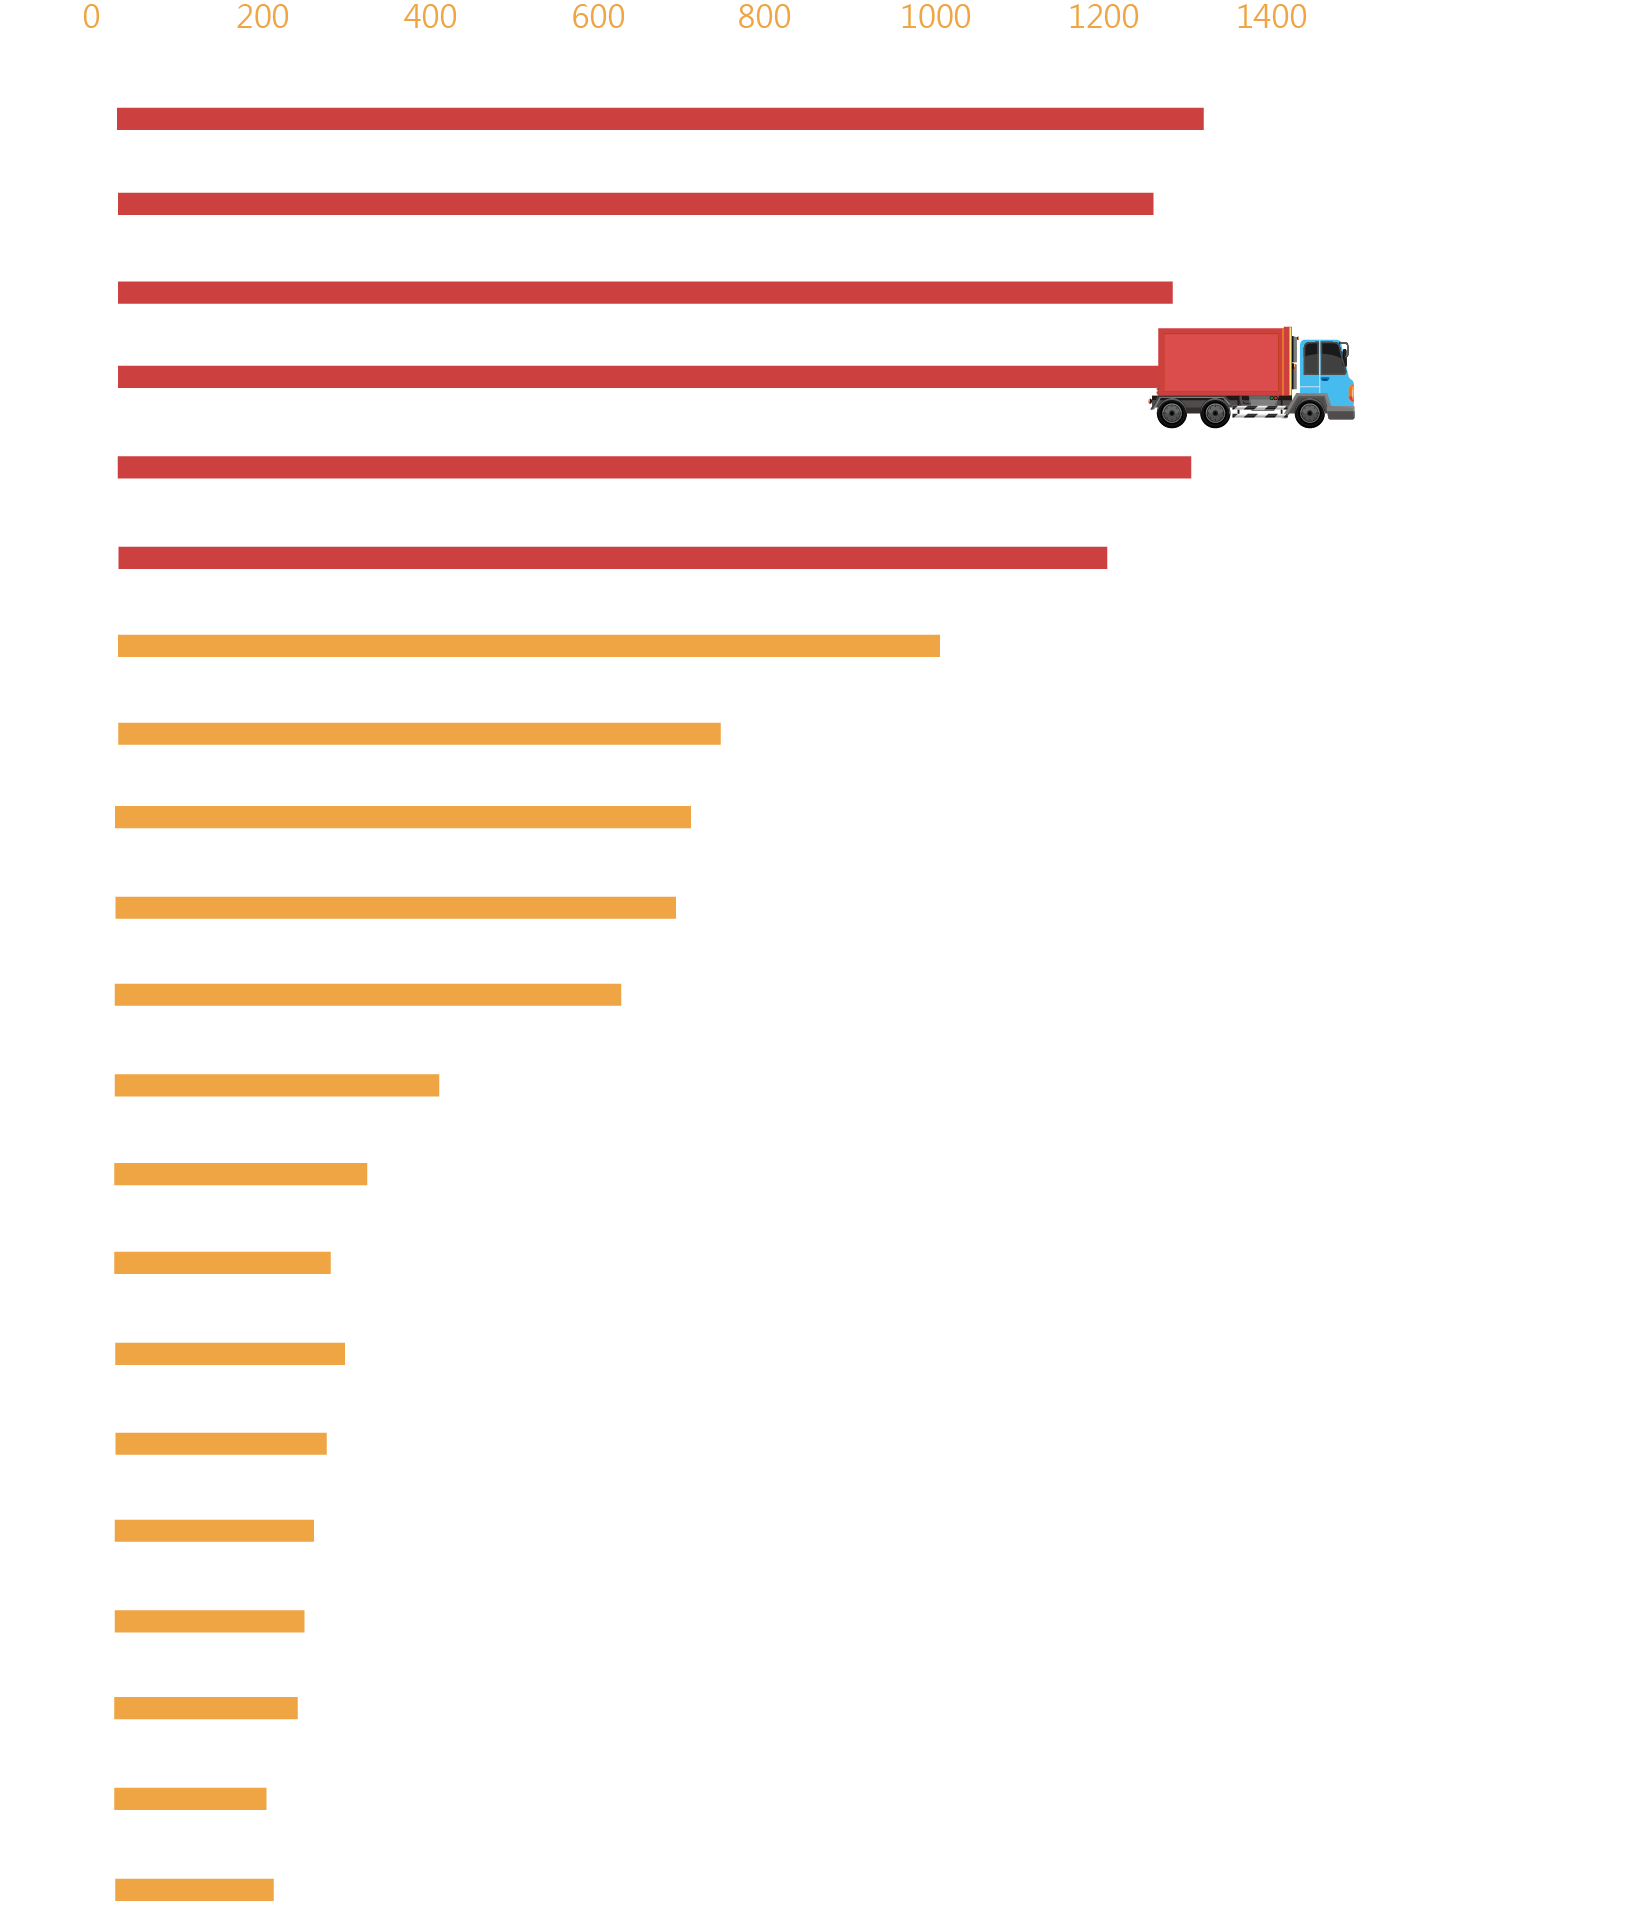
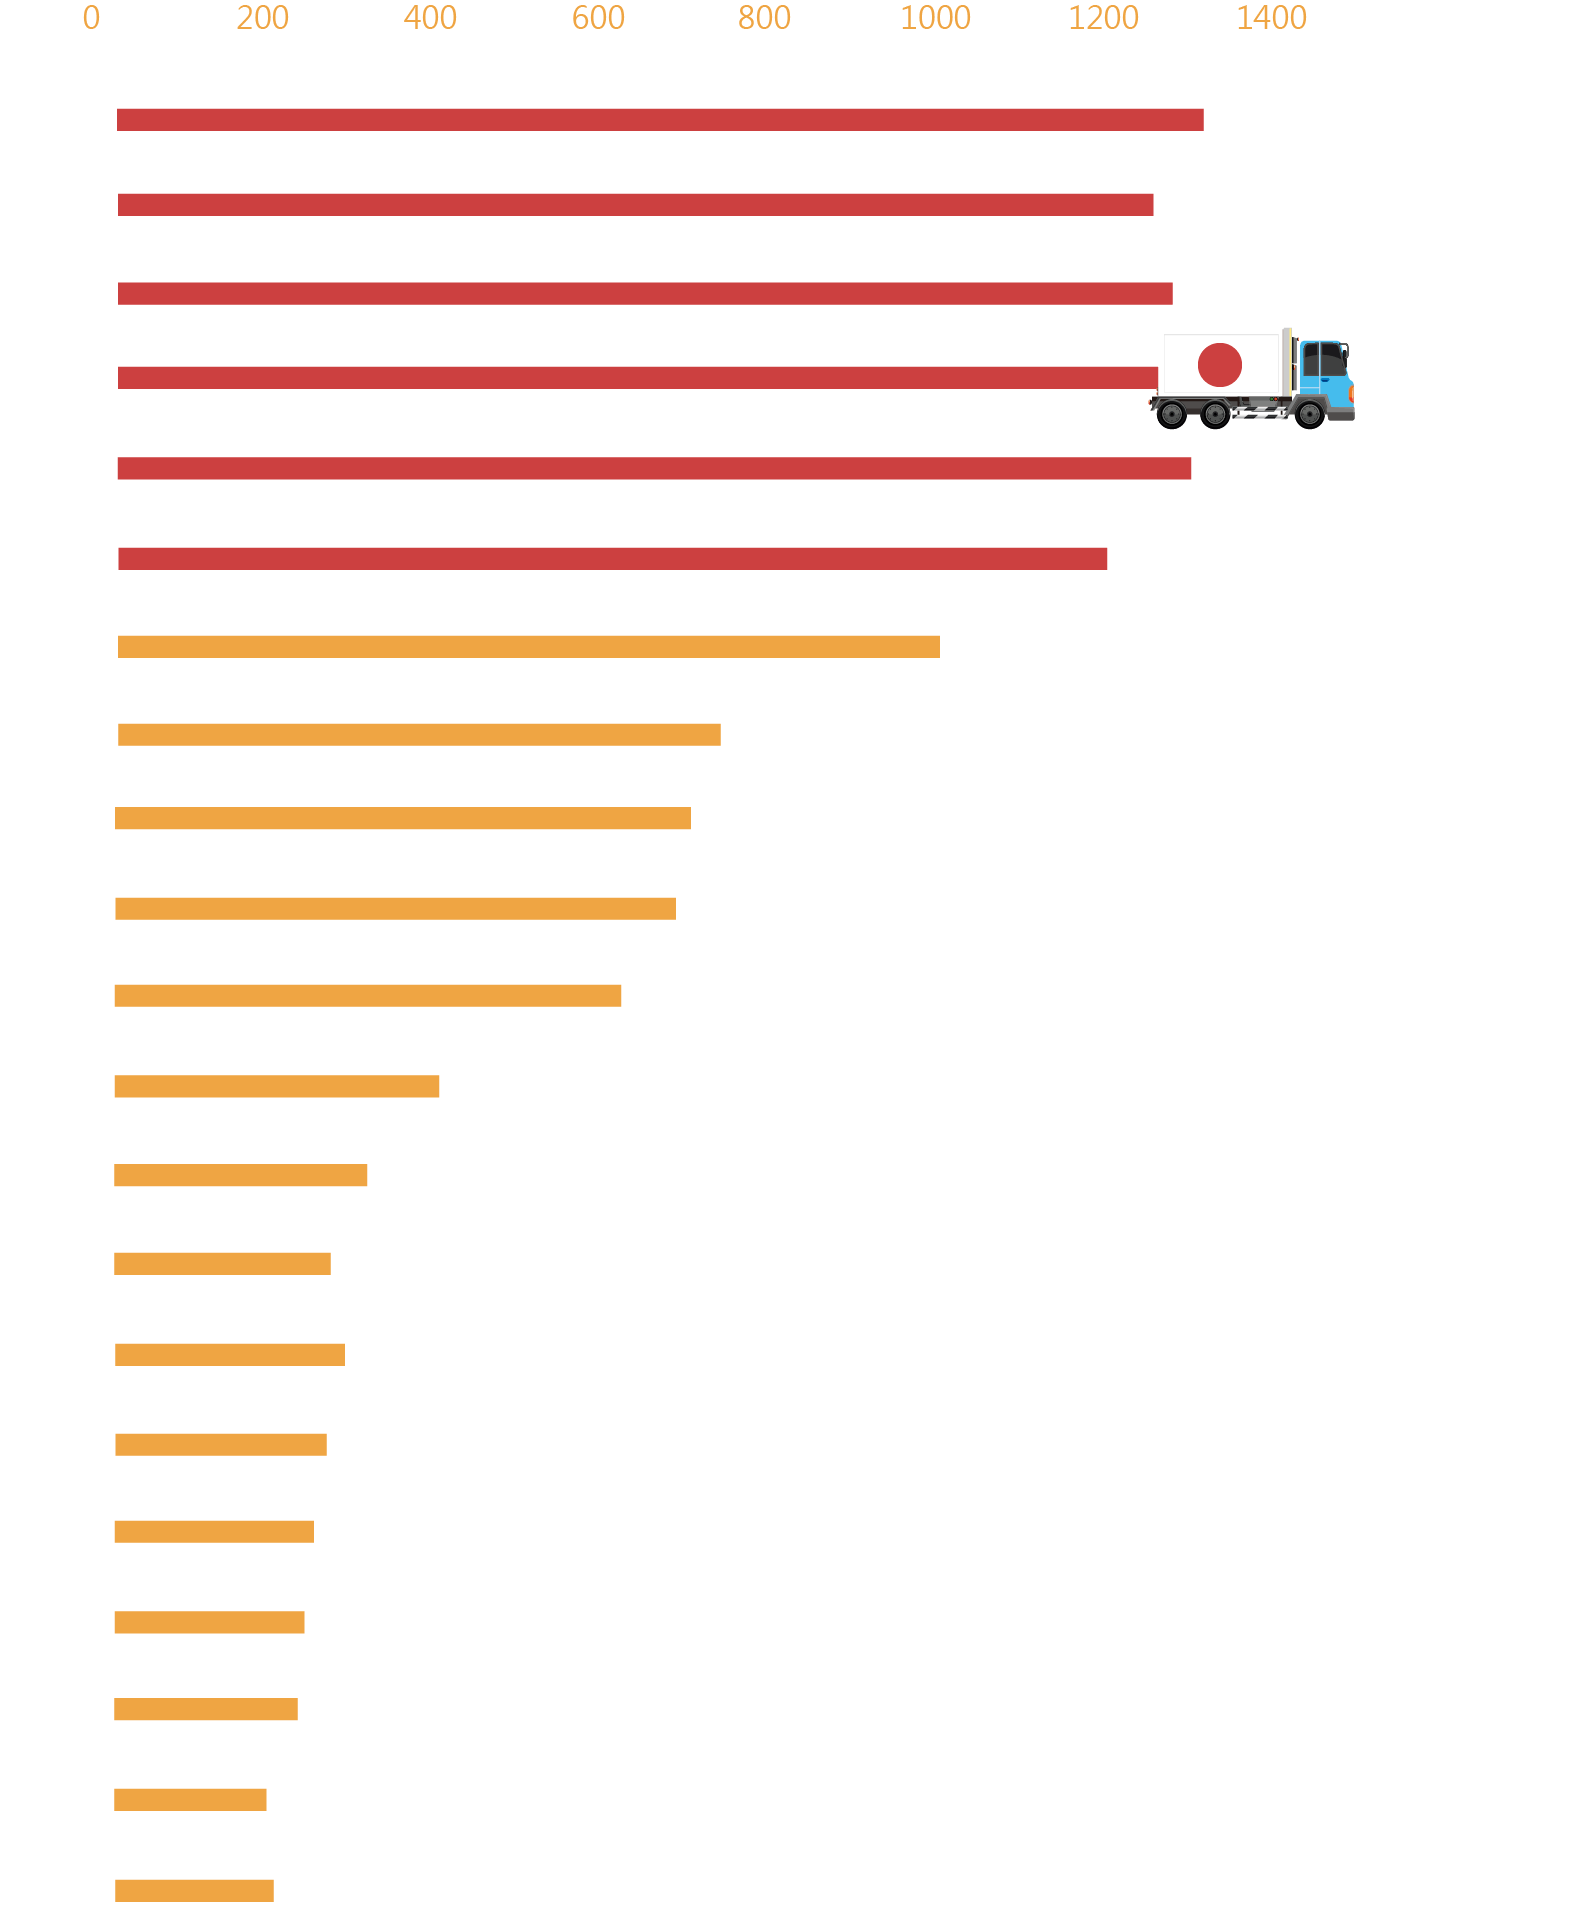
0628

diff --git a/index.html b/index.html
@@ -32,8 +32,8 @@
                 幾乎每天在媒體上，都可以看到酒駕事故發生，甚至因此奪走無辜生命，引發社會公憤。然而大家都知道酒駕危險性，相關刑責也不斷加重，酒駕事件為何還是不斷發生？政府還能做哪些事情，才能達到「零酒駕」的目標？</p>
         </section>
         <!-- 人物訪談  -->
-        <section id="section2" class="wire_layout section ask_box">
-            <h2>人物訪談</h2>
+        <section id="section2" class="wire_layout section">
+            <h2>醉後的謀殺</h2>
             <div class="inner_layout">
                 <div data-aos="fade-up" class="flex_layout">
                     <div class="ask_block">
@@ -74,12 +74,6 @@
                         </a>
                     </div>
                 </div>
-            </div>
-            <div class="yt_box">
-                <div><i class="fab fa-youtube fa-2x"></i><a href="https://www.youtube.com/embed/krC87GyYY9c"
-                        target="blank" class="various fancybox.iframe">&nbsp觀看完整影片 上集</a></div>
-                <div><i class="fab fa-youtube fa-2x"></i><a href="https://www.youtube.com/embed/APPESmYU96Q"
-                        target="blank" class="various fancybox.iframe">&nbsp觀看完整影片 下集</a></div>
             </div>
         </section>
         <!-- 修法一次看  -->
@@ -167,9 +161,9 @@
                 <div class="two-three">
                     <h2>啤酒倒倒看</h2>
                     <p>一個體重60公斤的人，喝了多少 5% 的啤酒，呼氣所含酒精濃度會達 0.25 mg/L？</p>
-                    <button id="result" class="btn_result">查看答案</button>
+                    <!-- <button id="result" class="btn_result">查看答案</button> -->
                     <figure class="pour">
-                        <img id="pour_deg" src="img/game/wine_0.svg" alt="bottle">
+                        <img id="pour_deg" src="img/game/wine_3.svg" alt="bottle">
                         <img id="pour_bot" src="img/game/bottle.svg" alt="bottle">
                     </figure>
                 </div>
@@ -277,7 +271,7 @@
                                 <span class="clockstyle"> 6</span>小時<br>
                             </label>
                             <label>
-                                <input type="radio" name="time" value="9" onClick="restTime('再多一點比較保險吧?')">
+                                <input type="radio" name="time" value="9" onClick="restTime('再多一點比較保險吧？')">
                                 <span class="clockstyle"> 9</span>小時<br>
                             </label>
                             <label>
@@ -311,7 +305,7 @@
                         <span class="color_b4"></span>
                         <span class="color_b5"></span>
                     </div>
-                    <p>為宣導酒後不開車，並達到「酒駕零容忍」的目標，立法院在2019初三讀通過《道路交通管理處罰條例》修正案</p>
+                    <p>為宣導酒後不開車，並達到「酒駕零容忍」的目標，立法院在2019年初三讀通過《道路交通管理處罰條例》修正案</p>
                 </div>
                 <div class="roadlaw">
                     <div class="roadlaw_content roadlaw_pc">
@@ -322,7 +316,7 @@
                             <span class="color_b4"></span>
                             <span class="color_b5"></span>
                         </div>
-                        <p>為宣導酒後不開車，並達到「酒駕零容忍」的目標，立法院在2019初三讀通過《道路交通管理處罰條例》修正案</p>
+                        <p>為宣導酒後不開車，並達到「酒駕零容忍」的目標，立法院在2019年初三讀通過《道路交通管理處罰條例》修正案</p>
                     </div>
                     <figure data-aos="zoom-in">
                         <img src="img/roadlaw.png" alt="road">
@@ -340,7 +334,7 @@
                         <figure data-aos="zoom-in" data-aos-duration="2000" class="list_img">
                             <img src="img/list.svg" alt="">
                         </figure>
-                        <p>五年內每犯一次，疊加9萬，以此類推。</p>
+                        <p style="font-size: 1.3em;">五年內每犯一次，疊加9萬，以此類推。</p>
                     </div>
                 </div>
             </div>
@@ -351,7 +345,8 @@
             <div class="inner_layout">
                 <div class="flex_layout">
                     <div class=" two-three">
-                        <p style="font-size: 1.3em;">此次修法新增「同車共責」部分，是仿效日本制度，但年滿70歲、心智障礙或汽車運輸業的乘客，不在此限。</p>
+                        <p style="font-size: 1.3em;padding-bottom: 50px;">
+                            此次修法新增「同車共責」部分，是仿效日本制度，但年滿70歲、心智障礙或汽車運輸業的乘客，不在此限。</p>
                         <div class="flex_layout car_layout">
                             <div data-aos="flip-up" data-aos-duration="1000" data-aos-delay="1000"
                                 class="car_text section_pc">
@@ -360,8 +355,7 @@
                             </div>
                             <div data-aos="flip-up" data-aos-duration="1000" data-aos-delay="1000"
                                 class="car_text section_mb">
-                                未來汽機車駕駛人經酒測後<br>
-                                所含酒精濃度達每公升0.25毫克
+                                未來汽機車駕駛人經酒測後，所含酒精濃度達每公升0.25毫克。
                             </div>
                             <div class="car_img">
                                 <figure>
@@ -375,13 +369,10 @@
                             </div>
                             <div data-aos="flip-up" data-aos-duration="1000" data-aos-delay="1100"
                                 class="car_text section_mb">
-                                年滿18歲的同車乘客將處600元～3000元罰鍰<br>
-                                滿20歲的同車乘客：<br>
-                                [日間]罰2200元-3000元<br>
-                                [夜間]罰1500元-1900元
+                                18-20歲乘客罰600-900元，滿20歲乘客罰1500-3000元。
                             </div>
                         </div>
-                        <p>這種處罰方式，是為了落實「預防酒駕人人有責」的精神，在酒醉者抱持僥倖心態上路前，透過同儕監督加以防範。</p>
+                        <p style="padding-top: 50px;">這種處罰方式，是為了落實「預防酒駕人人有責」的精神，在酒醉者抱持僥倖心態上路前，透過同儕監督加以防範。</p>
                     </div>
                 </div>
             </div>
@@ -389,6 +380,7 @@
         <!-- 法律-同車共責 -->
         <section id="section15" class="wire_layout section">
             <div class="inner_layout">
+                <h2>日本罰責大不同</h2>
                 <p>日本在20多年前，每年有上千件酒駕致死案件，但在1999年時發生一起卡車司機酒駕追撞，造成2名幼童罹難的悲劇，促使日本政府祭出重罰。</p>
                 <div data-aos="zoom-in">
                     <div>
@@ -625,11 +617,32 @@
             </div>
         </section>
         <!-- 結論 -->
-        <section id="section_end" class="wire_layout section">
-            <h2>結論</h2>
+        <section id="section_end" class="wire_layout section ask_box">
+            <h2>終極結論</h2>
             <div class="inner_layout" data-aos="zoom-in" style="width: 80%;">
                 <p>除了修改道路交通管理處罰條例，立法院2019也三讀《刑法》修正案，新增酒駕累犯若致人於死，可處無期徒刑或5年以上有期徒刑；倘若致重傷者，則處3年以上、10年以下有期徒刑。</p>
                 <p>然而酒駕修法後，法官對於酒駕者實際判刑，或是如何強化酒癮治療，都是社會還有疑慮的地方。更重要的是，如何透過教育落實「喝酒不開車」的共識，才能避免下個悲劇再次發生。</p>
+                <!-- <div class="yt_box">
+                    <i class="fab fa-youtube fa-2x"></i>
+                    <p>觀看異言堂完整影片</p>
+                    <ul>
+                        <li>
+                            <a href="https://www.youtube.com/embed/krC87GyYY9c" target="blank"
+                                class="various fancybox.iframe">&nbsp上集</a>
+                        </li>
+                        <li>
+                            <a href="https://www.youtube.com/embed/APPESmYU96Q" target="blank"
+                                class="various fancybox.iframe">&nbsp下集</a>
+                        </li>
+                    </ul>
+                </div> -->
+
+            </div>
+            <div class="yt_box">
+                <div><i class="fab fa-youtube fa-2x"></i><a href="https://www.youtube.com/embed/krC87GyYY9c"
+                        target="blank" class="various fancybox.iframe">&nbsp觀看完整影片 上集</a></div>
+                <div><i class="fab fa-youtube fa-2x"></i><a href="https://www.youtube.com/embed/APPESmYU96Q"
+                        target="blank" class="various fancybox.iframe">&nbsp觀看完整影片 下集</a></div>
             </div>
         </section>
         <section id="section_footer" class="wire_layout">

diff --git a/css/style.css b/css/style.css
@@ -378,7 +378,36 @@ figure {
   color: red;
 }
 
-.yt_box a:hover, .yt_box i:hover {
+.fa-youtube {
+  color: #000;
+}
+
+/* .yt_box {
+  padding: 16px;
+  border: 4px dashed white;
+  border-radius: 5px;
+  line-height: 30px;
+  cursor: pointer;
+  width: 40%;
+  margin: auto;
+  margin-top: 30px;
+} */
+
+/* /* .yt_box ul {
+  transition: .5s
+} */
+
+.yt_box ul li a {
+  color: white;
+  transition: .5s;
+  padding: 10px;
+}
+
+*/ .yt_box div:hover {
+  color: red;
+}
+
+.yt_box a:hover {
   color: red;
 }
 
@@ -721,14 +750,18 @@ sup {
   display: none;
   color: white;
   text-align: left;
+  font-size: 1.3em !important;
+  padding: 20px !important;
 }
 
-@media screen and (max-width:768px) {
+@media screen and (max-width:1024px) {
   .section_pc {
     display: none;
   }
   .section_mb {
     display: block;
+    font-size: 1.3em;
+    padding: 20px;
   }
 }
 
@@ -1273,16 +1306,9 @@ sup {
 }
 
 @media screen and (max-width:768px) {
-  .pour {
+  .drunker {
     display: none;
   }
-  /* .pour img:nth-child(1) {
-    width: 80px;
-  }
-  .pour img:nth-child(2) {
-    width: 80px;
-    margin-left: 0px;
-  } */
 }
 
 /* 隔夜酒駕 */
@@ -1649,7 +1675,7 @@ sup {
   padding: 20px 0;
 }
 
-@media screen and (max-width:768px) {
+@media screen and (max-width:1024px) {
   #section21 figure img {
     width: 100%;
   }

diff --git a/js/script.js b/js/script.js
@@ -22,10 +22,10 @@ $(document).ready(function () {
   });
 
   // 答案
-  $("#result").click(function () {
-    $("#info_answer").css("display", "block");
-    $(".mask").css("display", "block")
-  });
+  // $("#result").click(function () {
+  //   $("#info_answer").css("display", "block");
+  //   $(".mask").css("display", "block")
+  // });
   $("#result1").click(function () {
     $("#info_answer1").css("display", "block");
     $(".mask").css("display", "block")
@@ -79,17 +79,23 @@ $(document).ready(function () {
   });
 
   // 倒酒
-  let deg = 0;
+  // let deg = 0;
+  // $("#pour_bot").mousedown(function () {
+  //   if (deg < 7) {
+  //     $("#pour_deg").attr("src", "img/game/wine_" + (deg + 1) + ".svg");
+  //   }
+  //   deg++;
+  //   
+  // });
+
   $("#pour_bot").mousedown(function () {
-    if (deg < 7) {
-      $("#pour_deg").attr("src", "img/game/wine_" + (deg + 1) + ".svg");
-    }
-    deg++;
+    $("#pour_deg").attr("src", "img/game/wine_7.svg");
+    $("#info_answer").css("display", "block");
+    $(".mask").css("display", "block")
   });
+
   $("#pour_deg").mousedown(function () {
-    $("#pour_deg").attr("src", "img/game/wine_0.svg");
-    let deg_null = 0;
-    deg = deg_null;
+    $("#pour_deg").attr("src", "img/game/wine_3.svg");
   });
 
   // 翻牌
